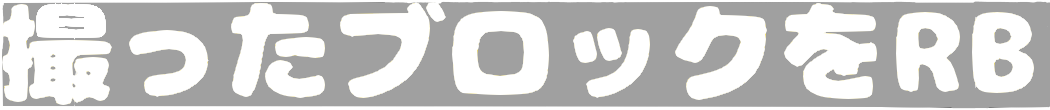
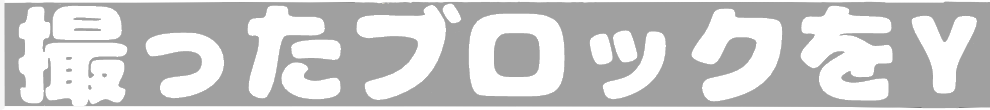
チュートリアルテキストの文面変更

diff --git a/engine/scene/GamePlayScene.cpp b/engine/scene/GamePlayScene.cpp
@@ -71,7 +71,7 @@ CameraManager::GetInstans()->AddCamera("maincam", camera1.get());
 
 
 	//操作説明UI
-
+	/*
 	std::vector<OperationText>spriteInfos = {
 		{"Resources/xbox_stick_l.png",{90,655},{70,70}},
 		{"Resources/xbox_button_color_b.png",{557,655},{70,70}},
@@ -84,7 +84,7 @@ CameraManager::GetInstans()->AddCamera("maincam", camera1.get());
 		{"Resources/haiti.png",{1143,655},{60,60}},
 		{"Resources/zyanpu.png",{430,655},{60,60}},
 	};
-
+	*/
 	int stageIndex = SceneManager::GetInstance()->GetStageIndex();
 
 	std::string stagePath;
@@ -251,12 +251,12 @@ CameraManager::GetInstans()->AddCamera("maincam", camera1.get());
 	OperationtextButtonA->SetSize(Vector2(70, 70));
 
 	OperationtextLB = std::make_unique<Sprite>();
-	OperationtextLB->Initialize(SpriteCommon::GetInstance(), "Resources/xbox_lb.png");
+	OperationtextLB->Initialize(SpriteCommon::GetInstance(), "Resources/xbox_button_color_x.png");
 	OperationtextLB->SetPosition(Vector2(826, 655));
 	OperationtextLB->SetSize(Vector2(70, 70));
 
 	OperationtextRB = std::make_unique<Sprite>();
-	OperationtextRB->Initialize(SpriteCommon::GetInstance(), "Resources/xbox_rb.png");
+	OperationtextRB->Initialize(SpriteCommon::GetInstance(), "Resources/xbox_button_color_y.png");
 	OperationtextRB->SetPosition(Vector2(1039, 655));
 	OperationtextRB->SetSize(Vector2(70, 70));
 
@@ -292,7 +292,7 @@ CameraManager::GetInstans()->AddCamera("maincam", camera1.get());
 			newSprite->SetPosition(Vector2(1050.0f, 15.0f));
 			newSprite->SetSize(Vector2(150, 50));
 		} else if (i == 1) {
-			newSprite->Initialize(SpriteCommon::GetInstance(), "Resources/xbox_button_color_y.png");
+			newSprite->Initialize(SpriteCommon::GetInstance(), "Resources/xbox_button_menu.png");
 			newSprite->SetPosition(Vector2(1210.0f, 5.0f));
 			newSprite->SetSize(Vector2(70, 70));
 		}

diff --git a/StageSelectScene.cpp b/StageSelectScene.cpp
@@ -116,7 +116,7 @@ void StageSelectScene::Initialize()
 			newSprite->SetPosition(Vector2(15.0f, 15.0f));
 			newSprite->SetSize(Vector2(150, 50));
 		} else if (i == 1) {
-			newSprite->Initialize(SpriteCommon::GetInstance(), "Resources/xbox_button_color_y.png");
+			newSprite->Initialize(SpriteCommon::GetInstance(), "Resources/xbox_button_menu.png");
 			newSprite->SetPosition(Vector2(170.0f, 5.0f));
 			newSprite->SetSize(Vector2(70, 70));
 		} 
